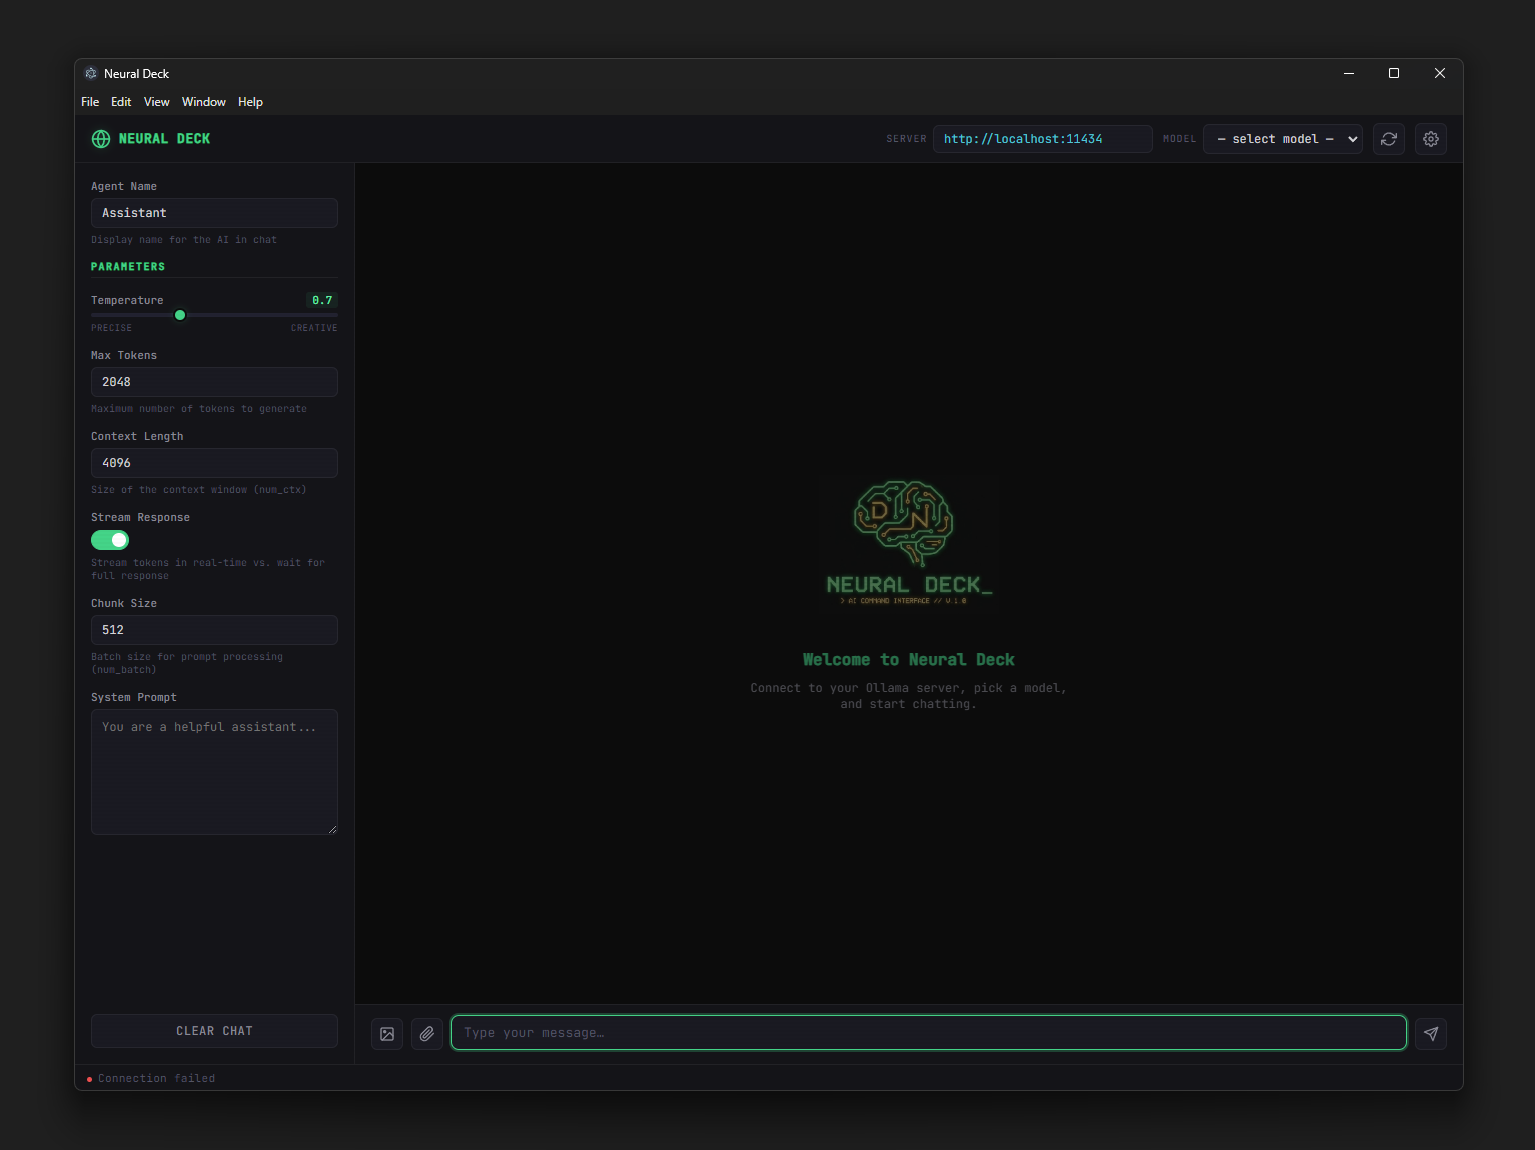
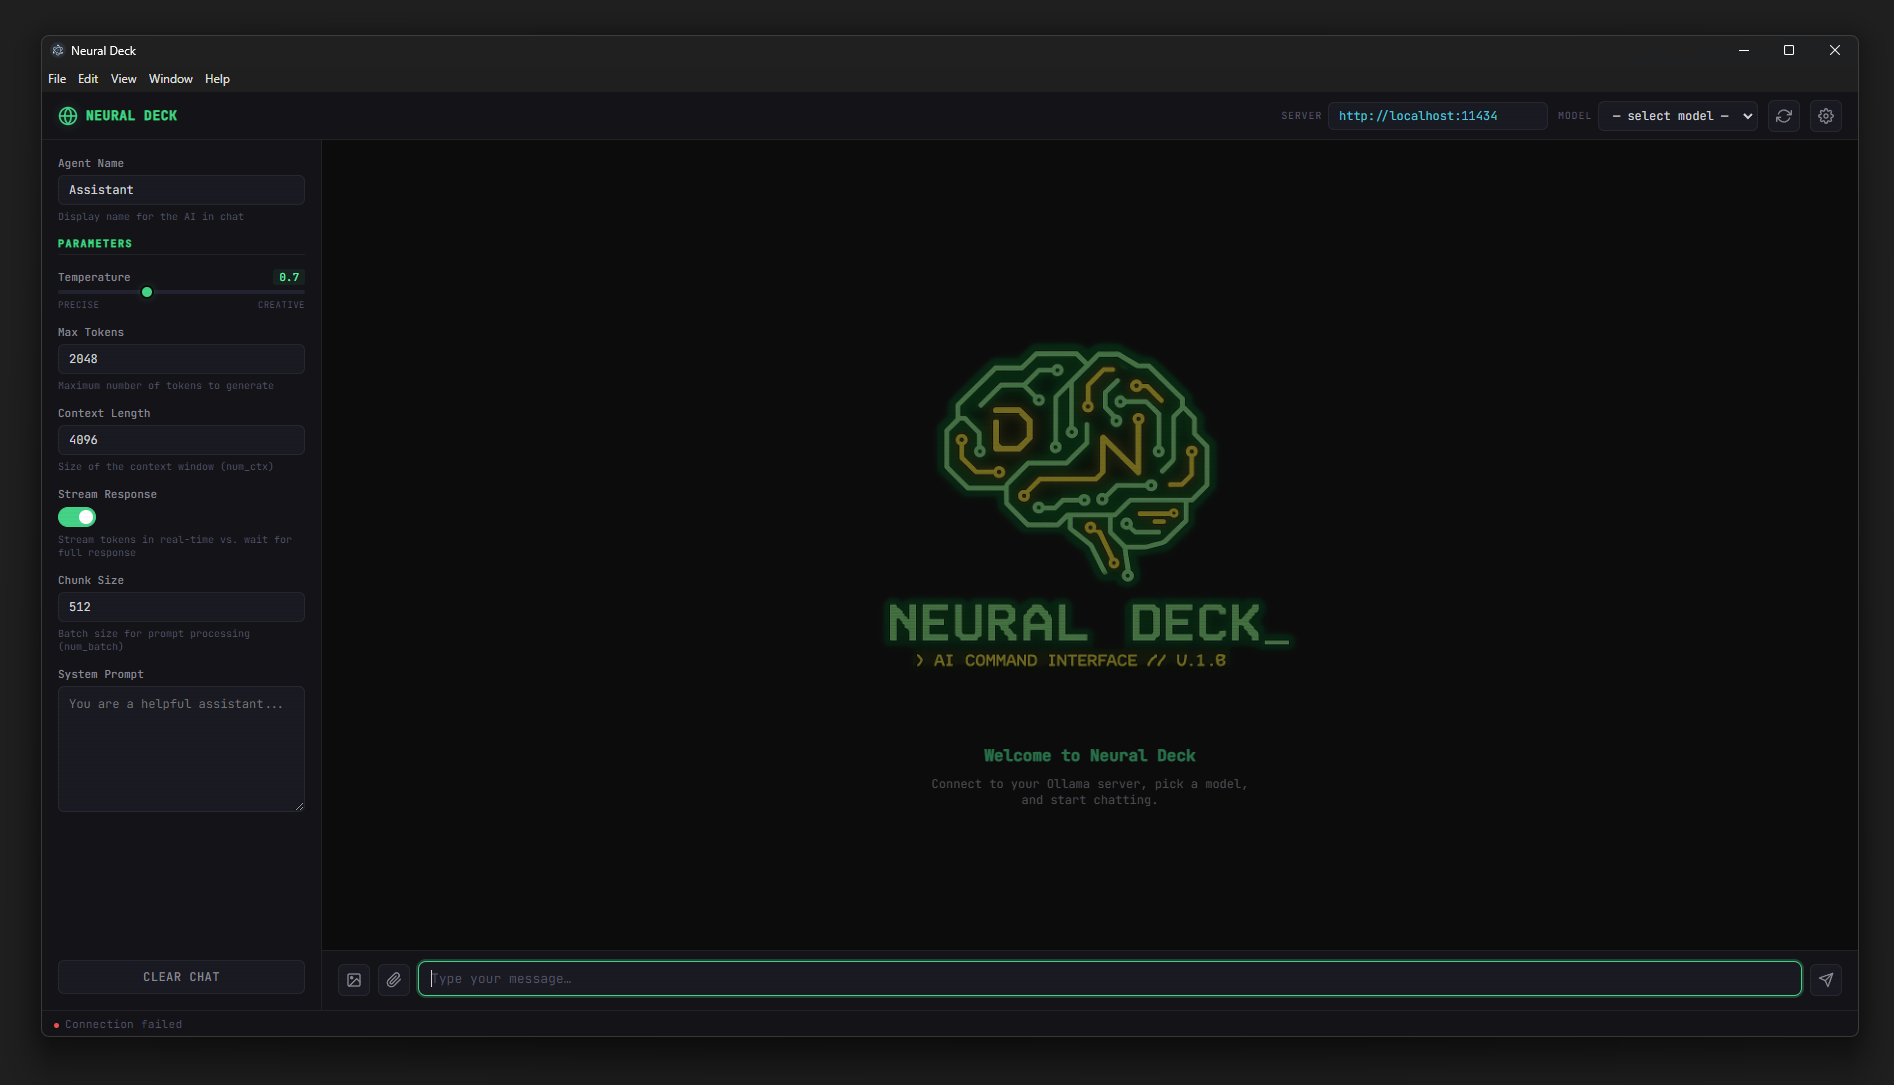
fixing styling

diff --git a/renderer.js b/renderer.js
@@ -460,7 +460,7 @@ btnClear.addEventListener('click', () => {
     messagesEl.innerHTML = `
     <div class="welcome-message">
       <div class="welcome-icon">
-        <img src="ndlogo.jpg" alt="Neural Deck" />
+        <img src="ndlogo.png" alt="Neural Deck" />
       </div>
       <h2>Welcome to Neural Deck</h2>
       <p>Connect to your Ollama server, pick a model, and start chatting.</p>

diff --git a/index.html b/index.html
@@ -117,7 +117,7 @@
       <div id="messages">
         <div class="welcome-message">
           <div class="welcome-icon">
-            <img src="ndlogo.jpg" alt="Neural Deck" />
+            <img src="ndlogo.png" alt="Neural Deck" />
           </div>
           <h2>Welcome to Neural Deck</h2>
           <p>Connect to your Ollama server, pick a model, and start chatting.</p>

diff --git a/styles.css b/styles.css
@@ -476,10 +476,9 @@ textarea:focus {
 }
 
 .welcome-icon img {
-  width: 180px;
-  height: 180px;
+  width: 450px;
+  height: 450px;
   object-fit: contain;
-  border-radius: 16px;
   opacity: 0.85;
 }
 

diff --git a/README.md b/README.md
@@ -64,7 +64,7 @@ neural-deck/
 ├── renderer.js      # Frontend logic (chat, markdown, attachments, settings)
 ├── index.html       # App layout & structure
 ├── styles.css       # Terminal-themed styling
-├── ndlogo.jpg       # App logo
+├── ndlogo.png       # App logo
 └── package.json
 ```
 
